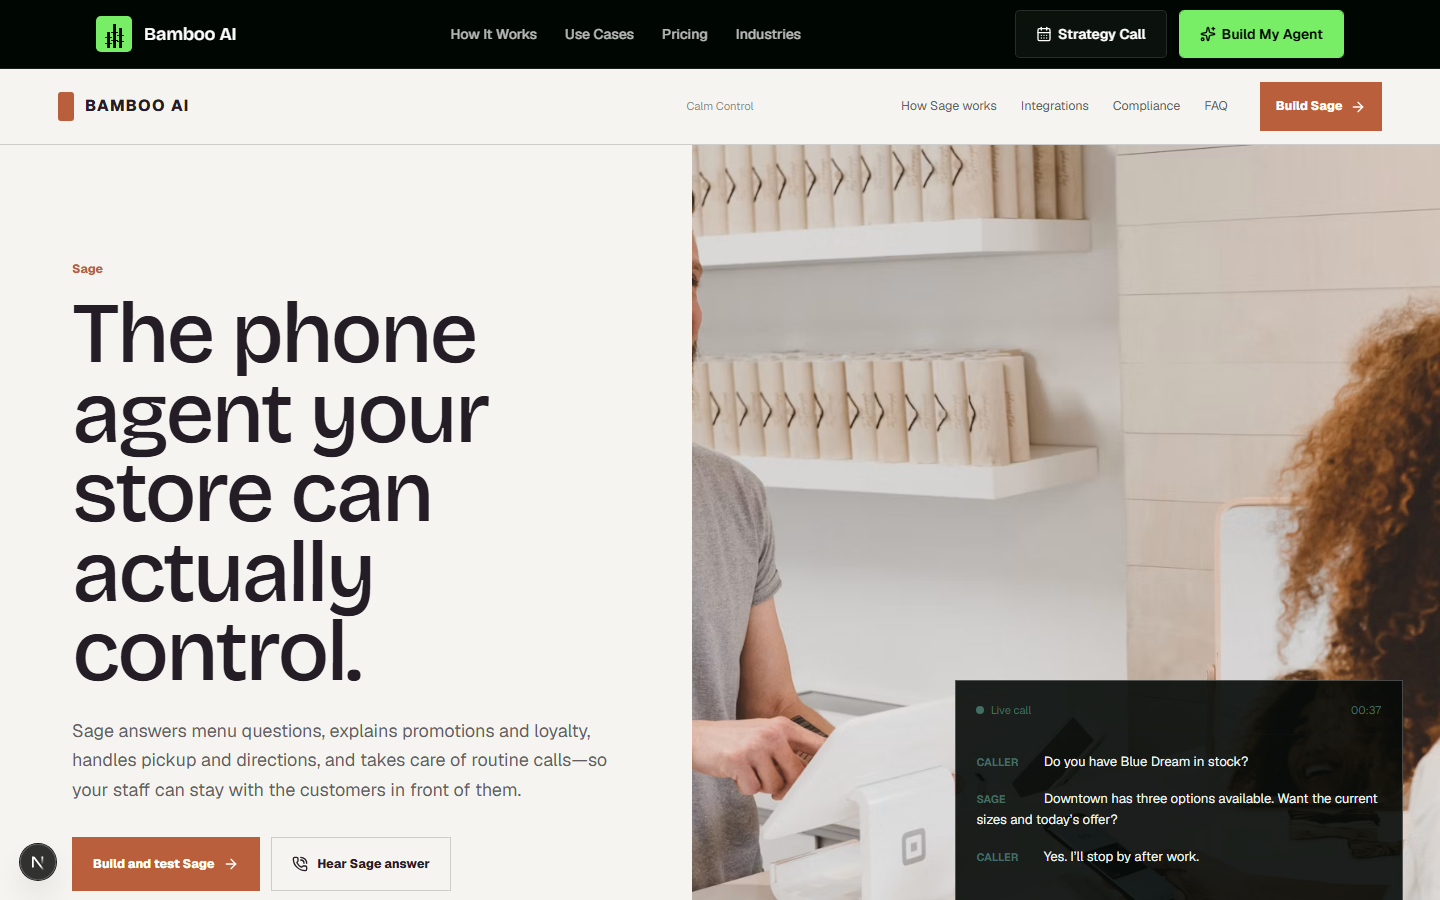
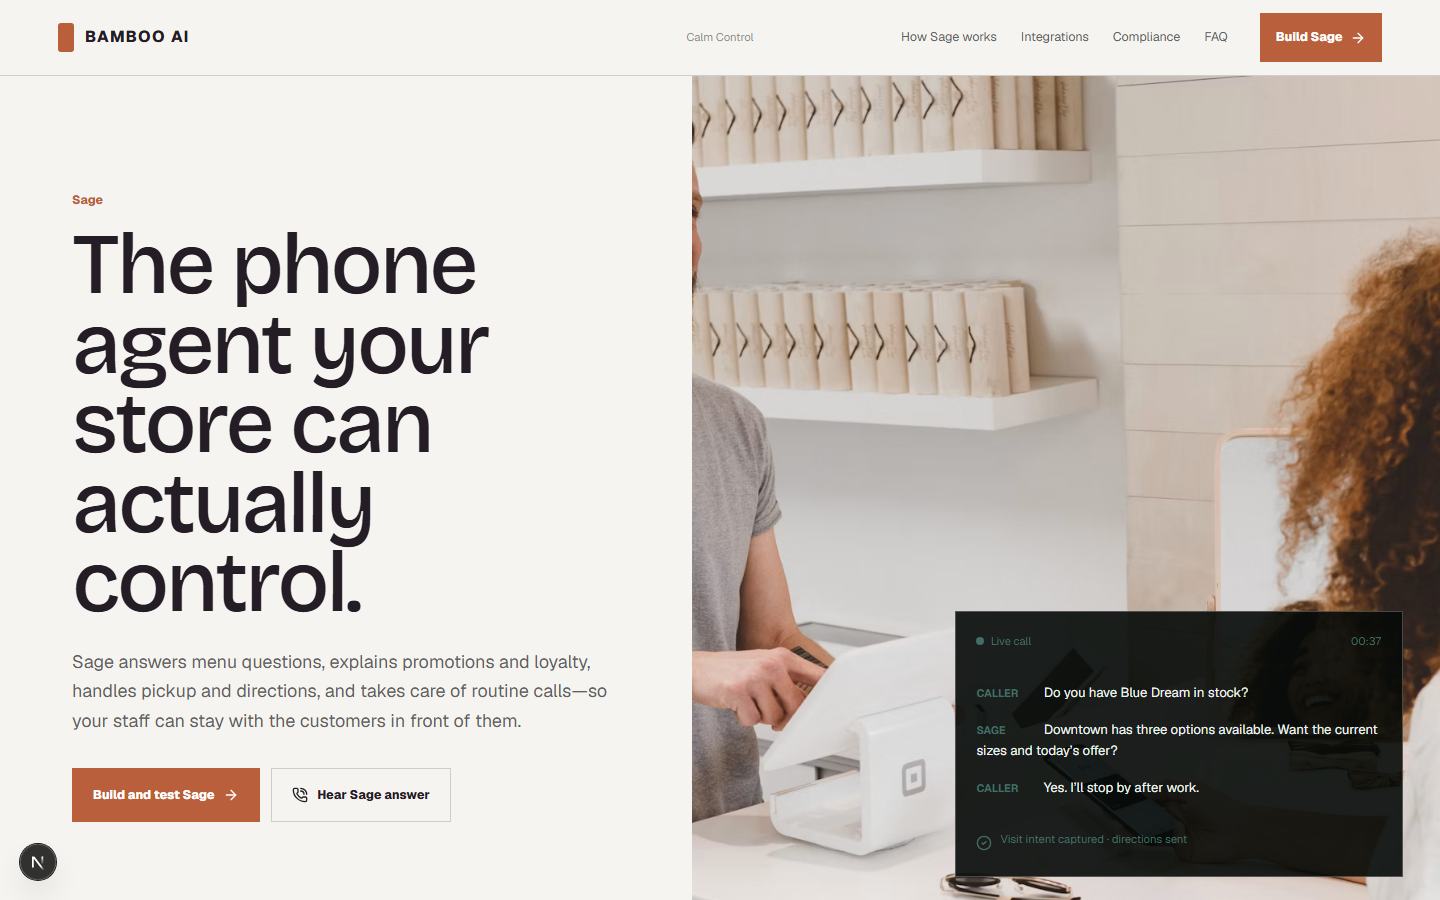
Match premium cannabis concept detail

diff --git a/src/components/funnel/cannabis-design-lab.tsx b/src/components/funnel/cannabis-design-lab.tsx
@@ -18,18 +18,24 @@ const scenarios = [
 export function CannabisDesignLab({ initialConcept = "after-hours" }: { initialConcept?: ConceptId }) {
   const [scenario, setScenario] = useState(0);
   const concept = initialConcept;
-  return <main id="main-content" className={`${styles.page} ${styles[camel(concept)]}`}>
+  return <main id="main-content" data-cannabis-design className={`${styles.page} ${styles[camel(concept)]}`}>
     <LocalNav concept={concept} />
     <Hero concept={concept} />
+    <TrustRail concept={concept} />
     <Pain concept={concept} />
     <Outcomes concept={concept} />
     <Scenarios active={scenario} setActive={setScenario} concept={concept} />
+    {concept === "sale-in-call" ? <CallReceipt /> : null}
+    {concept === "calm-control" ? <ConversationLibrary /> : null}
     <Integrations concept={concept} />
     <Personalization />
     <Compliance concept={concept} />
+    {concept === "calm-control" ? <Locations /> : null}
     <Setup concept={concept} />
     <FAQ />
+    <RiskReversal />
     <Close concept={concept} />
+    <LocalFooter />
   </main>;
 }
 
@@ -45,6 +51,8 @@ function Hero({ concept }: { concept: ConceptId }) {
 
 function Actions() { return <div className={styles.actions}><a href="/free-agent-builder?industry=Cannabis">Build and test Sage <ArrowRight /></a><button><PhoneCall /> Hear Sage answer</button></div>; }
 
+function TrustRail({ concept }: { concept: ConceptId }) { const items = concept === "after-hours" ? ["Always on during the rush", "Trained on your store", "Every call leaves an outcome", "Test before launch"] : ["Approved store knowledge", "Human handoff built in", "Permission-based personalization", "Location-specific control"]; return <section className={styles.trustRail}>{items.map((item,i)=><div key={item}><span>{String(i+1).padStart(2,"0")}</span><b>{item}</b></div>)}</section>; }
+
 function CallTranscript() { return <div className={styles.transcript}><header><span><i /> Live call</span><time>00:37</time></header><p><b>Caller</b> Do you have Blue Dream in stock?</p><p><b>Sage</b> Downtown has three options available. Want the current sizes and today’s offer?</p><p><b>Caller</b> Yes. I’ll stop by after work.</p><footer><CircleCheck /> Visit intent captured · directions sent</footer></div>; }
 
 function CallPath() { return <div className={styles.callPath}>{["Caller question", "Location confirmed", "Menu checked", "Deal verified", "Directions sent", "Visit intent captured"].map((x,i)=><div key={x}><b>{String(i+1).padStart(2,"0")}</b><span>{x}</span>{i===5?<Check />:<i />}</div>)}</div>; }
@@ -55,17 +63,27 @@ function Outcomes({ concept }: { concept: ConceptId }) { return <section classNa
 
 function Scenarios({ active, setActive, concept }: { active:number; setActive:(n:number)=>void; concept:ConceptId }) { const s=scenarios[active]; return <section id="calls" className={styles.scenarios}><div className={styles.sectionLead}><span>Real calls. Useful outcomes.</span><h2>{concept === "calm-control" ? "Pre-built. Store-specific. Always on brand." : "Hear what Sage does with the calls you already get."}</h2></div><div className={styles.scenarioTabs}>{scenarios.map((x,i)=><button onClick={()=>setActive(i)} className={i===active?styles.active:""} key={x.tab}>{x.tab}</button>)}</div><div className={styles.conversation}><div><small>Caller</small><p>“{s.q}”</p></div><div><small>Sage</small><p>“{s.a}”</p></div><footer><Check /> {s.outcome}</footer></div></section>; }
 
+function CallReceipt() { return <section className={styles.receiptSection}><div className={styles.receipt}><header><span>Call receipt</span><b>Resolved by Sage</b></header><dl><dt>Location</dt><dd>Downtown</dd><dt>Question</dt><dd>Blue Dream availability</dd><dt>Menu answer</dt><dd>Three options in stock</dd><dt>Promotion</dt><dd>Approved offer shared</dd><dt>Visit intent</dt><dd>After work today</dd><dt>Follow-up</dt><dd>Directions texted</dd></dl><footer><CircleCheck /> Next step captured</footer></div><div><span>Every call leaves a trail.</span><h2>Every call moves forward.</h2><p>Sage captures the details your team needs to continue the conversation—or close the sale—without replaying the call.</p><ul><li><Check /> Full call summary</li><li><Check /> Searchable customer intent</li><li><Check /> Clear staff action</li></ul></div></section>; }
+
+function ConversationLibrary() { return <section className={styles.library}><div><span>Conversation library</span><h2>Curated answers. Local pricing. Always controlled.</h2><p>Each common call begins with approved store knowledge, then adapts to the caller’s location and request.</p></div><div className={styles.libraryTray}>{scenarios.map((s,i)=><article key={s.tab}><b>{s.tab}</b><p>“{s.q}”</p><div className={styles.libraryImage} data-image={i} /></article>)}</div></section>; }
+
 function Integrations({ concept }: { concept: ConceptId }) { return <section id="integrations" className={styles.integrations}><div className={styles.sectionLead}><span>Connected to your store</span><h2>{concept === "calm-control" ? "One trusted source. Every system." : "Works where you work."}</h2><p>Sage connects to the tools you already use, so store information stays current and every call leaves a usable record.</p></div><div className={styles.integrationLine}>{[[Store,"POS & menu"],[ShoppingBag,"Promotions"],[UserRoundCheck,"Loyalty"],[PhoneCall,"Sage"],[Headphones,"SMS & reports"]].map(([Icon,label],i)=>{const I=Icon as typeof Store;return <div key={label as string}><I /><b>{label as string}</b>{i<4&&<ArrowRight />}</div>})}</div></section>; }
 
 function Personalization() { return <section className={styles.personal}><div className={styles.personalImage} /><div><span>Personal, with permission</span><h2>Greet returning customers. Respect their privacy.</h2><p>When connected data, customer permission, and store policy allow it, Sage can recognize a preferred location, explain loyalty information, and make the next conversation more useful.</p><ul><li><Check /> Use only approved customer context</li><li><Check /> Keep recommendations inside store rules</li><li><Check /> Let customers opt out at any time</li></ul></div></section>; }
 
 function Compliance({ concept }: { concept: ConceptId }) { return <section id="control" className={styles.compliance}><div className={styles.sectionLead}><span>Compliance, built in</span><h2>{concept === "calm-control" ? "Control every answer. Stay audit ready." : "Enterprise-grade. Dispensary-controlled."}</h2><p>You choose what Sage may say, what it must never say, and when a manager takes over.</p></div><div className={styles.rules}>{[[ShieldCheck,"Approved knowledge","Only content your team approves and maintains."],[LockKeyhole,"Age-gated flow","Configured around location policy and jurisdiction."],[MapPin,"Location rules","Local hours, offers, inventory and handoffs."],[Headphones,"Human escalation","Sensitive calls reach your team with context."]].map(([Icon,h,p])=>{const I=Icon as typeof ShieldCheck;return <article key={h as string}><I/><div><h3>{h as string}</h3><p>{p as string}</p></div></article>})}</div><div className={styles.noClaims}><b>No medical claims</b><span>No diagnosis · no treatment advice · no guessing</span></div></section>; }
 
+function Locations() { return <section className={styles.locations}><div><span>Built for multi-location operations</span><h2>Consistent experience. Local execution.</h2><p>Every store keeps the right hours, policies, menu context, promotions, and handoff rules.</p></div><div>{[["Downtown","Open · closes 10 PM","Local menu & pricing"],["Northside","Open · closes 9 PM","Local policies"],["Westgate","Open · closes 11 PM","Local promotions"],["Lakeside","Open · closes 9 PM","Local staff & contacts"]].map(([n,h,d])=><article key={n}><b>{n}</b><span>{h}</span><small>{d}</small><ArrowRight /></article>)}</div></section>; }
+
 function Setup({ concept }: { concept: ConceptId }) { return <section className={styles.setup}><div className={styles.sectionLead}><span>Build, test, then launch</span><h2>{concept === "after-hours" ? "From setup to sales—fast." : "Go live in four controlled stages."}</h2></div><div>{[["Discover","Add stores, hours, policies and common calls."],["Build","Connect supported systems and approve answers."],["Test","Call Sage yourself and tune every response."],["Launch","Go live when your team is satisfied."]].map(([h,p],i)=><article key={h}><b>0{i+1}</b><h3>{h}</h3><p>{p}</p></article>)}</div></section>; }
 
 function FAQ() { const [open,setOpen]=useState(0); const qs=["Can Sage access our live menu?","How does age gating work?","What happens when Sage does not know?","Can Sage recognize returning customers?","Does Sage replace our budtenders?"]; return <section id="faq" className={styles.faq}><h2>Questions operators ask before launch.</h2><div>{qs.map((q,i)=><article key={q}><button onClick={()=>setOpen(open===i?-1:i)} aria-expanded={open===i}><span>{q}</span><ChevronDown /></button>{open===i&&<p>{answer(i)}</p>}</article>)}</div></section>; }
 
+function RiskReversal() { return <section className={styles.risk}><div><b>Build before you buy</b><span>Test real calls with your store information.</span></div><div><b>No pressure to publish</b><span>Go live only when the answers are right.</span></div><div><b>Human onboarding</b><span>Configure supported systems and guardrails.</span></div><div><b>Clear monthly pricing</b><span>Plans can be changed as your call volume grows.</span></div></section>; }
+
 function Close({ concept }: { concept: ConceptId }) { return <section className={styles.close}><div><span>{conceptNames[concept]}</span><h2>{concept === "sale-in-call" ? "Every call gets a next step." : concept === "calm-control" ? "Your staff takes care of the store. Sage takes care of the phone." : "You handle the experience. Sage handles the phone."}</h2><p>Build Sage with your store information, approved language, and handoff rules. Then call it yourself before going live.</p><Actions /></div></section>; }
+
+function LocalFooter() { return <footer className={styles.localFooter}><div className={styles.logo}><i />BAMBOO AI</div><div><b>Product</b><a href="#calls">How Sage works</a><a href="#integrations">Integrations</a></div><div><b>Trust</b><a href="#control">Compliance</a><a href="#faq">Questions</a></div><div><b>Company</b><span>Privacy</span><span>Terms</span></div></footer>; }
 
 function answer(i:number){return ["Sage can read supported menu and inventory sources for the correct store. Integration availability depends on your current platform.","Age-gated flows are configured around retailer policy and jurisdiction requirements before product discussion.","Sage acknowledges uncertainty and routes the call to the right person with a conversation summary.","When permission, connected data and policy allow it, Sage can use approved customer context without exposing private information.","No. Sage handles repetitive phone work so budtenders can spend more time with in-store customers."][i]}
 function camel(id:ConceptId){return id.replace(/-([a-z])/g,(_,c)=>c.toUpperCase())}

diff --git a/src/components/funnel/cannabis-design-lab.module.css b/src/components/funnel/cannabis-design-lab.module.css
@@ -1,3 +1,14 @@
 .page{--bg:#090d0c;--surface:#101715;--ink:#f5f6f2;--muted:#aeb8b3;--accent:#ff6418;--signal:#50d7c1;--line:rgba(255,255,255,.16);position:relative;z-index:2;background:var(--bg);color:var(--ink);font-family:var(--font-geist-sans)}.page *{box-sizing:border-box}.page h1,.page h2,.page h3{font-family:var(--font-bricolage);letter-spacing:-.035em}.nav{height:76px;padding:0 clamp(1.25rem,4vw,4.5rem);display:flex;align-items:center;gap:2rem;border-bottom:1px solid var(--line);position:relative;z-index:4}.logo{display:flex;align-items:center;gap:.7rem;font-weight:800;letter-spacing:.08em}.logo i{width:1rem;height:1.8rem;background:var(--accent);border-radius:3px}.navLinks{display:flex;gap:1.5rem;margin-left:auto;font-size:.78rem;color:var(--muted)}.navButton{display:flex;align-items:center;gap:.5rem;padding:.8rem 1rem;background:var(--accent);color:#fff;font-size:.78rem;font-weight:800}.navButton svg,.actions svg{width:1rem}.menuButton{display:none}.conceptName{position:absolute;left:50%;transform:translateX(-50%);font-size:.7rem;color:var(--muted);opacity:.7}.heroAfter{min-height:calc(100svh - 76px);padding:clamp(4rem,9vw,8rem) clamp(1.25rem,5vw,5rem);display:flex;align-items:center;position:relative;background-image:url('https://images.unsplash.com/photo-1441986300917-64674bd600d8?auto=format&fit=crop&w=2000&q=90');background-size:cover;background-position:center}.afterShade{position:absolute;inset:0;background:linear-gradient(90deg,#050807 0%,rgba(5,8,7,.85) 42%,rgba(5,8,7,.18) 78%)}.afterCopy{position:relative;z-index:2;width:min(55rem,62%)}.afterCopy>span,.saleCopy>span,.calmCopy>span,.sectionLead>span,.pain>div>span,.personal>div>span{display:block;color:var(--accent);font-size:.76rem;font-weight:800;margin-bottom:1rem}.afterCopy h1{font-size:clamp(4.5rem,9vw,8.8rem);line-height:.82;font-weight:600}.afterCopy h1 em{color:var(--signal);font-style:normal}.afterCopy p,.saleCopy p,.calmCopy p{max-width:36rem;margin-top:1.5rem;color:var(--muted);font-size:1.12rem;line-height:1.65}.actions{display:flex;gap:.7rem;flex-wrap:wrap;margin-top:2rem}.actions a,.actions button{min-height:3.2rem;padding:.9rem 1.25rem;display:flex;align-items:center;justify-content:center;gap:.55rem;border:1px solid var(--line);font-weight:800;font-size:.78rem}.actions a{background:var(--accent);color:white;border-color:transparent}.heroAfter>.transcript{position:absolute;right:5%;top:19%;width:min(30rem,38%)}.transcript{background:rgba(5,10,8,.9);border:1px solid rgba(255,255,255,.25);padding:1.3rem;color:#eaf3ee}.transcript header{display:flex;justify-content:space-between;padding-bottom:1rem;border-bottom:1px solid var(--line);font-size:.68rem;color:var(--signal)}.transcript header span{display:flex;align-items:center;gap:.4rem}.transcript header i{width:.5rem;height:.5rem;border-radius:50%;background:var(--signal)}.transcript p{margin:1rem 0;font-size:.82rem;line-height:1.6}.transcript p b{display:inline-block;width:4rem;color:var(--signal);font-size:.68rem;text-transform:uppercase}.transcript footer{display:flex;gap:.5rem;padding-top:1rem;border-top:1px solid var(--line);color:var(--signal);font-size:.7rem}.transcript footer svg{width:1rem}.heroSale{min-height:92svh;padding:clamp(4rem,8vw,7rem) clamp(1.25rem,5vw,5rem);display:grid;grid-template-columns:1.15fr .85fr;gap:clamp(2rem,7vw,7rem);align-items:center}.saleInCall{--bg:#0b32d4;--surface:#fff;--ink:#fff;--muted:#dbe3ff;--accent:#ff4b12;--signal:#73e2a7;--line:rgba(255,255,255,.28)}.saleCopy h1{font-size:clamp(4rem,8vw,8rem);line-height:.83;text-transform:uppercase}.callPath{border-left:2px solid rgba(255,255,255,.45)}.callPath>div{min-height:4.4rem;display:grid;grid-template-columns:3rem 1fr auto;align-items:center;gap:1rem;padding-left:1.2rem}.callPath b{font-size:1.2rem}.callPath span{font-weight:800;text-transform:uppercase}.callPath i{width:3.5rem;height:2px;background:rgba(255,255,255,.5)}.callPath svg{color:var(--signal)}.calmControl{--bg:#f5f4f0;--surface:#fff;--ink:#241d25;--muted:#645e63;--accent:#b95f3c;--signal:#426e65;--line:rgba(36,29,37,.18)}.heroCalm{min-height:88svh;display:grid;grid-template-columns:1fr 1.08fr}.calmCopy{padding:clamp(4rem,8vw,8rem) clamp(1.25rem,5vw,5rem);display:flex;flex-direction:column;justify-content:center}.calmCopy h1{font-size:clamp(3.5rem,6vw,6.4rem);line-height:.92;font-weight:500}.heroPhoto{position:relative;min-height:42rem;background:url('https://images.unsplash.com/photo-1556742049-0cfed4f6a45d?auto=format&fit=crop&w=1600&q=90') center/cover}.heroPhoto .transcript{position:absolute;right:5%;bottom:7%;width:min(28rem,88%)}.pain,.outcomes,.scenarios,.integrations,.personal,.compliance,.setup,.faq,.close{padding:clamp(5rem,10vw,10rem) clamp(1.25rem,6vw,6rem)}.pain{display:grid;grid-template-columns:.8fr 1.2fr;gap:clamp(3rem,8vw,9rem);align-items:center;background:var(--surface)}.pain h2,.sectionLead h2,.personal h2,.faq h2,.close h2{font-size:clamp(3rem,6vw,6rem);line-height:.92}.pain>div>p,.sectionLead>p,.personal>div>p{max-width:42rem;margin-top:1.5rem;color:var(--muted);line-height:1.7}.compare{display:grid;grid-template-columns:1fr 1fr}.compare article{padding:2rem;border:1px solid var(--line)}.compare b{font-size:.75rem;text-transform:uppercase;color:var(--accent)}.compare p{margin-top:1rem;color:var(--muted);display:flex;gap:.5rem}.compare svg{width:1rem;color:var(--signal)}.outcomes{background:var(--bg)}.sectionLead{max-width:66rem}.outcomeRow{display:grid;grid-template-columns:repeat(4,1fr);margin-top:4rem;border-top:1px solid var(--line)}.outcomeRow article{padding:2rem 1.2rem 0 0;border-right:1px solid var(--line)}.outcomeRow b{color:var(--accent)}.outcomeRow h3{margin-top:2rem;font-size:2rem;text-transform:uppercase}.outcomeRow p{margin-top:.6rem;color:var(--muted);line-height:1.55}.scenarios{background:var(--surface)}.scenarioTabs{display:flex;gap:.5rem;margin-top:3rem}.scenarioTabs button{padding:.8rem 1.2rem;border:1px solid var(--line);font-weight:750}.scenarioTabs .active{background:var(--accent);color:#fff;border-color:transparent}.conversation{max-width:64rem;margin:1rem 0 0 auto;border:1px solid var(--line)}.conversation>div{padding:1.5rem;border-bottom:1px solid var(--line)}.conversation small{color:var(--accent);font-weight:800}.conversation p{margin-top:.4rem;font-size:clamp(1.1rem,2vw,1.6rem)}.conversation footer{padding:1rem 1.5rem;display:flex;gap:.5rem;color:var(--signal);font-weight:750}.conversation footer svg{width:1rem}.integrations{display:grid;grid-template-columns:.7fr 1.3fr;gap:5rem;align-items:end}.integrationLine{display:flex;justify-content:space-between;align-items:center}.integrationLine>div{display:flex;flex-direction:column;align-items:center;text-align:center;gap:.6rem;font-size:.7rem}.integrationLine svg{width:1.6rem}.integrationLine>div>svg:last-child{width:1rem;color:var(--accent)}.personal{display:grid;grid-template-columns:1fr 1fr;gap:clamp(2rem,7vw,7rem);align-items:center;background:var(--surface)}.personalImage{min-height:36rem;background:url('https://images.unsplash.com/photo-1528698827591-e19ccd7bc23d?auto=format&fit=crop&w=1400&q=90') center/cover}.personal ul{margin-top:1.5rem}.personal li{display:flex;gap:.6rem;margin:.7rem 0;color:var(--muted)}.personal li svg{width:1rem;color:var(--signal)}.compliance{background:#17131b;color:#f5f2f5}.compliance .sectionLead p{color:#bbb3bb}.rules{display:grid;grid-template-columns:repeat(4,1fr);margin-top:4rem;border:1px solid rgba(255,255,255,.18)}.rules article{padding:1.5rem;border-right:1px solid rgba(255,255,255,.18);display:flex;gap:1rem}.rules svg{width:1.3rem;color:var(--accent);flex:none}.rules h3{font-size:1rem}.rules p{margin-top:.5rem;color:#bbb3bb;font-size:.78rem;line-height:1.5}.noClaims{margin-top:1.5rem;display:flex;justify-content:space-between;color:#bbb3bb;font-size:.75rem}.noClaims b{color:var(--accent)}.setup>div:last-child{display:grid;grid-template-columns:repeat(4,1fr);margin-top:4rem;border-top:1px solid var(--line)}.setup article{padding:2rem 1rem 0 0;border-right:1px solid var(--line)}.setup article b{color:var(--accent)}.setup article h3{font-size:1.5rem;margin-top:1.5rem}.setup article p{color:var(--muted);margin-top:.5rem;line-height:1.5}.faq{display:grid;grid-template-columns:.7fr 1.3fr;gap:5rem;background:var(--surface)}.faq h2{font-size:clamp(2.6rem,4vw,4.4rem)}.faq article{border-bottom:1px solid var(--line)}.faq button{width:100%;padding:1.3rem 0;display:flex;justify-content:space-between;text-align:left;font-weight:750}.faq button svg{width:1rem}.faq article p{padding:0 2rem 1.3rem 0;color:var(--muted);line-height:1.7}.close{min-height:80svh;display:flex;align-items:center;background:linear-gradient(90deg,rgba(5,8,7,.95),rgba(5,8,7,.4)),url('https://images.unsplash.com/photo-1441986300917-64674bd600d8?auto=format&fit=crop&w=2000&q=90') center/cover;color:#fff}.close>div{max-width:64rem}.close>div>span{color:var(--accent);font-weight:800}.close p{max-width:42rem;margin-top:1.5rem;color:#d3d8d5;line-height:1.7}.saleInCall .pain,.saleInCall .scenarios,.saleInCall .personal,.saleInCall .faq{background:#fff;color:#111b3b}.saleInCall .outcomes,.saleInCall .integrations,.saleInCall .setup{background:#f6f7ff;color:#111b3b}.saleInCall .muted{color:#59617b}.saleInCall .close{background:#0b32d4}.calmControl .pain,.calmControl .scenarios,.calmControl .personal,.calmControl .faq{background:#fff}.calmControl .outcomes,.calmControl .integrations,.calmControl .setup{background:#f5f4f0}.calmControl .close{background:linear-gradient(90deg,rgba(30,20,32,.95),rgba(30,20,32,.48)),url('https://images.unsplash.com/photo-1441986300917-64674bd600d8?auto=format&fit=crop&w=2000&q=90') center/cover}
 @media(max-width:900px){.navLinks,.conceptName{display:none}.menuButton{display:block;margin-left:auto}.navButton{display:none}.heroAfter>.transcript{position:relative;right:auto;top:auto;width:100%;margin-top:2rem}.heroAfter{display:block;min-height:auto}.afterCopy{width:100%}.heroSale,.heroCalm,.pain,.integrations,.personal,.faq{grid-template-columns:1fr}.heroPhoto{min-height:34rem}.outcomeRow,.rules,.setup>div:last-child{grid-template-columns:1fr 1fr}.integrationLine{margin-top:2rem}.compare{grid-template-columns:1fr}}
 @media(max-width:600px){.nav{height:62px}.heroAfter,.heroSale,.calmCopy{padding:3.5rem 1.15rem}.afterCopy h1,.saleCopy h1,.calmCopy h1{font-size:clamp(3.2rem,17vw,5.2rem)}.heroAfter{background-position:64% center}.afterShade{background:linear-gradient(180deg,rgba(5,8,7,.35),#050807 62%)}.actions{flex-direction:column}.actions a,.actions button{width:100%}.heroPhoto{min-height:31rem}.heroPhoto .transcript{left:1rem;right:1rem;width:auto}.pain,.outcomes,.scenarios,.integrations,.personal,.compliance,.setup,.faq,.close{padding:4.5rem 1.15rem}.pain h2,.sectionLead h2,.personal h2,.faq h2,.close h2{font-size:clamp(2.6rem,13vw,4rem)}.outcomeRow,.rules,.setup>div:last-child{grid-template-columns:1fr}.outcomeRow article,.rules article,.setup article{border-right:0;border-bottom:1px solid var(--line);padding:1.4rem 0}.scenarioTabs{overflow-x:auto}.scenarioTabs button{white-space:nowrap}.conversation{margin-top:1rem}.integrationLine{align-items:stretch;flex-direction:column;gap:1rem}.integrationLine>div{flex-direction:row;text-align:left}.integrationLine>div>svg:last-child{transform:rotate(90deg);margin-left:auto}.personalImage{min-height:23rem}.noClaims{display:block}.noClaims span{display:block;margin-top:.5rem}.close{min-height:auto}.callPath{margin-top:2rem}.callPath>div{min-height:3.5rem}}
+
+:global(body:has([data-cannabis-design]) > header),:global(body:has([data-cannabis-design]) > footer){display:none!important}
+.page{z-index:20}.afterHours h1,.afterHours h2,.afterHours h3,.saleInCall h1,.saleInCall h2,.saleInCall h3{font-family:var(--font-oswald),var(--font-bricolage);letter-spacing:-.02em}.afterCopy h1,.saleCopy h1{font-size:clamp(4rem,8vw,6rem)}
+.trustRail{display:grid;grid-template-columns:repeat(4,1fr);padding:0 clamp(1.25rem,6vw,6rem);border-block:1px solid var(--line);background:var(--bg)}.trustRail>div{min-height:6rem;display:flex;align-items:center;gap:1rem;padding:1rem;border-right:1px solid var(--line)}.trustRail span{color:var(--accent);font-size:.7rem}.trustRail b{font-size:.78rem}
+.receiptSection{padding:clamp(5rem,10vw,9rem) clamp(1.25rem,6vw,6rem);display:grid;grid-template-columns:1fr .9fr;gap:clamp(3rem,8vw,8rem);align-items:center;background:#fff;color:#111b3b}.receipt{border:1px solid #b9c1d8;padding:1.5rem;background:#fff;box-shadow:6px 6px 0 #e8ebf7}.receipt header,.receipt footer{display:flex;justify-content:space-between;align-items:center;padding-bottom:1rem;border-bottom:1px solid #d8ddea;text-transform:uppercase;font-size:.72rem;color:#0b32d4}.receipt dl{display:grid;grid-template-columns:.7fr 1.3fr;gap:.8rem;padding:1.3rem 0}.receipt dt{color:#65708d}.receipt dd{font-weight:750}.receipt footer{padding:1rem 0 0;border-top:1px solid #d8ddea;border-bottom:0;color:#1a9d66}.receipt footer svg{width:1.1rem}.receiptSection>div:last-child>span{color:#ff4b12;font-weight:800}.receiptSection h2{font-family:var(--font-oswald);font-size:clamp(3rem,6vw,6rem);line-height:.92;text-transform:uppercase;margin-top:.6rem}.receiptSection p{margin-top:1.2rem;color:#59617b;line-height:1.7}.receiptSection ul{margin-top:1.2rem}.receiptSection li{display:flex;gap:.5rem;margin:.6rem 0}.receiptSection li svg{width:1rem;color:#1a9d66}
+.library{padding:clamp(5rem,10vw,9rem) clamp(1.25rem,6vw,6rem);display:grid;grid-template-columns:.5fr 1.5fr;gap:4rem;background:#fff;color:#241d25}.library>div:first-child span,.locations>div:first-child span{color:#b95f3c;font-weight:800;font-size:.72rem}.library h2,.locations h2{font-size:clamp(2.5rem,4.5vw,4.8rem);line-height:.95;margin-top:.8rem}.library>div:first-child p,.locations>div:first-child p{margin-top:1.2rem;color:#645e63;line-height:1.7}.libraryTray{display:grid;grid-template-columns:repeat(4,1fr);gap:.7rem;padding:1rem;background:#5b4032;border:8px solid #7c5944;box-shadow:0 6px 0 #3c2b23}.libraryTray article{background:#f6f4ef;padding:1rem;min-height:18rem;display:flex;flex-direction:column}.libraryTray b{font-size:.9rem}.libraryTray p{font-size:.75rem;margin-top:.6rem;min-height:3.3rem}.libraryImage{margin-top:auto;height:8rem;background:center/cover}.libraryImage[data-image="0"]{background-image:url('https://images.unsplash.com/photo-1528698827591-e19ccd7bc23d?auto=format&fit=crop&w=500&q=80')}.libraryImage[data-image="1"]{background:#2c211d}.libraryImage[data-image="2"]{background-image:url('https://images.unsplash.com/photo-1556742049-0cfed4f6a45d?auto=format&fit=crop&w=500&q=80')}.libraryImage[data-image="3"]{background-image:url('https://images.unsplash.com/photo-1441986300917-64674bd600d8?auto=format&fit=crop&w=500&q=80')}
+.locations{padding:clamp(5rem,10vw,9rem) clamp(1.25rem,6vw,6rem);display:grid;grid-template-columns:.65fr 1.35fr;gap:5rem;background:#f5f4f0;color:#241d25}.locations>div:last-child{display:flex;flex-direction:column;gap:.55rem}.locations article{display:grid;grid-template-columns:1fr 1fr 1fr auto;align-items:center;gap:1rem;padding:1.1rem 1.25rem;background:#355c55;color:#fff}.locations article span,.locations article small{color:#d6e1de}.locations article svg{width:1rem;color:#d68a69}
+.risk{display:grid;grid-template-columns:repeat(4,1fr);padding:2rem clamp(1.25rem,6vw,6rem);background:var(--surface);border-block:1px solid var(--line)}.risk>div{padding:1rem 1.4rem;border-right:1px solid var(--line)}.risk b,.risk span{display:block}.risk b{font-size:.78rem;color:var(--accent)}.risk span{margin-top:.4rem;font-size:.72rem;color:var(--muted);line-height:1.5}
+.localFooter{display:grid;grid-template-columns:1.6fr repeat(3,1fr);gap:3rem;padding:3.5rem clamp(1.25rem,6vw,6rem);background:#050807;color:#eff5f1;border-top:1px solid rgba(255,255,255,.14)}.localFooter>div{display:flex;flex-direction:column;gap:.5rem;font-size:.72rem;color:#9eaaa4}.localFooter b{color:#fff}.localFooter .logo{color:#fff}
+@media(max-width:900px){.receiptSection,.library,.locations{grid-template-columns:1fr}.libraryTray{grid-template-columns:1fr 1fr}.trustRail,.risk{grid-template-columns:1fr 1fr}}
+@media(max-width:600px){.trustRail,.risk{grid-template-columns:1fr}.trustRail>div{min-height:4rem;border-right:0;border-bottom:1px solid var(--line)}.receiptSection,.library,.locations{padding:4.5rem 1.15rem}.libraryTray{grid-template-columns:1fr}.libraryTray article{min-height:15rem}.locations article{grid-template-columns:1fr auto}.locations article span,.locations article small{grid-column:1}.risk>div{border-right:0;border-bottom:1px solid var(--line)}.localFooter{grid-template-columns:1fr 1fr;padding:3rem 1.15rem}}

diff --git a/src/app/layout.tsx b/src/app/layout.tsx
@@ -1,5 +1,5 @@
 import type { Metadata, Viewport } from "next";
-import { Bricolage_Grotesque, Geist, Geist_Mono } from "next/font/google";
+import { Bricolage_Grotesque, Geist, Geist_Mono, Oswald } from "next/font/google";
 import { PageViewTracker } from "@/components/analytics/page-view-tracker";
 import { AnimatedGradient } from "@/components/funnel/animated-gradient";
 import { ExitIntentModal, Footer, MobileStickyCTA, Navbar } from "@/components/funnel/navigation";
@@ -18,6 +18,11 @@ const geistMono = Geist_Mono({
 
 const bricolage = Bricolage_Grotesque({
   variable: "--font-bricolage",
+  subsets: ["latin"],
+});
+
+const oswald = Oswald({
+  variable: "--font-oswald",
   subsets: ["latin"],
 });
 
@@ -56,7 +61,7 @@ export default function RootLayout({
     <html
       lang="en"
       data-scroll-behavior="smooth"
-      className={`${geistSans.variable} ${geistMono.variable} ${bricolage.variable} dark h-full antialiased`}
+      className={`${geistSans.variable} ${geistMono.variable} ${bricolage.variable} ${oswald.variable} dark h-full antialiased`}
     >
       <body className="min-h-full bg-background text-foreground">
         <TooltipProvider>

diff --git a/src/app/globals.css b/src/app/globals.css
@@ -252,3 +252,8 @@
     transition-duration: 0.01ms !important;
   }
 }
+
+body:has([data-cannabis-design]) > header,
+body:has([data-cannabis-design]) > footer {
+  display: none !important;
+}